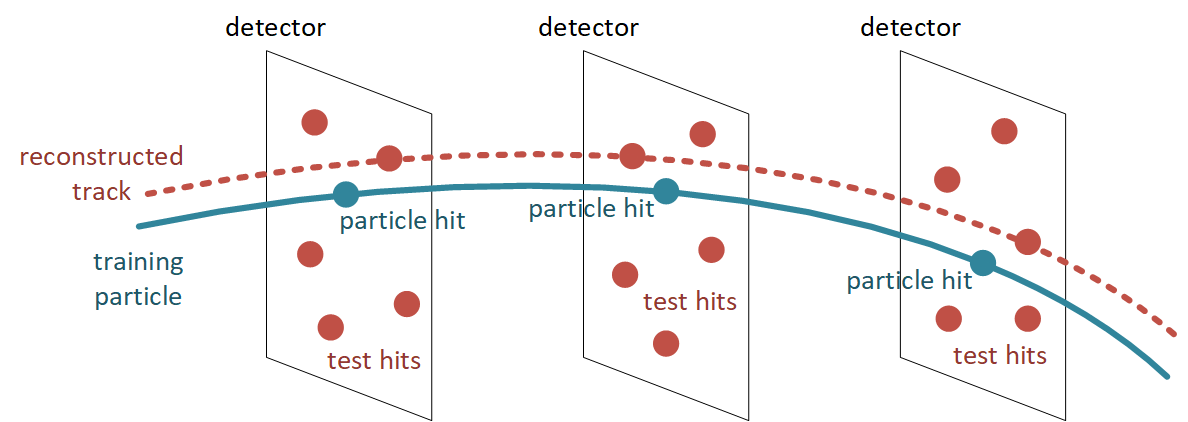
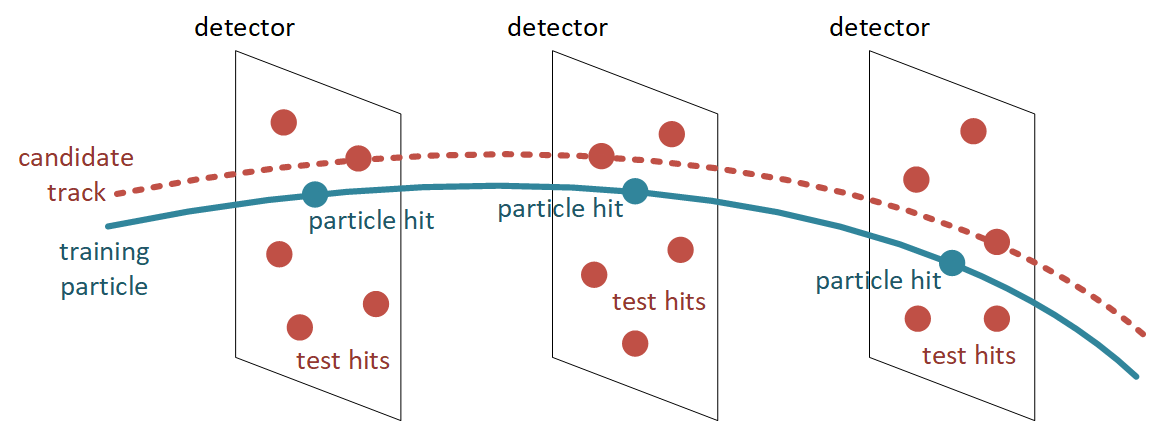
updated README.md

diff --git a/README.md b/README.md
@@ -14,7 +14,7 @@ So, let's have a look at the solution.
 
 ## Introduction
 
-The training set for this competition contains on the order of 10<sup>4</sup> events (event ids). Each event contains on the order of 10<sup>4</sup> particles (particle ids). Therefore, we have a total of about (10<sup>4</sup> events) * (10<sup>4</sup> particles per event) = 10<sup>8</sup> training particles.
+The training set for this competition contains on the order of 10<sup>4</sup> events (event ids). Each event contains on the order of 10<sup>4</sup> particles (particle ids). Therefore, there are a total of about (10<sup>4</sup> events) * (10<sup>4</sup> particles per event) = 10<sup>8</sup> training particles.
 
 <p align="center"><img src="https://raw.githubusercontent.com/diogoff/trackml-100/master/images/trackml.png"></p>
 <p align="center">(Source: <a href="https://sites.google.com/site/trackmlparticle/">https://sites.google.com/site/trackmlparticle/</a>)</p>
@@ -23,13 +23,22 @@ Although there are many particles, the routes that these particles travel throug
 
 We could try to create a model that takes into account this particular experimental setup. We could even try to learn that model from the training data, and I guess many competitors have worked along these lines.
 
-However, in this competition I attempted a more general approach. Regardless of the particular experimental setup, I tried to answer the following question:
+However, in this competition I tried a more general approach. Regardless of the particular experimental setup, I tried to answer the following question:
 
 * *Given a large amount of training particles, is it possible to do track reconstruction from test hits by finding the training particles that best fit the test hits?*
 
-To better explain this idea, consider the following figure:
+To better explain this idea, consider the following picture:
 
 <p align="center"><img src="https://raw.githubusercontent.com/diogoff/trackml-100/master/images/particle.png" width="600"></p>
+
+In the picture above, there are some test hits on three detectors. Let us pick a training particle that passes through these same detectors. Then some test hits will be closer to the training particle than others. 
+
+Pick the test hits that are closest to the particle hits on each detector. Calculate the average distance between the particle hits and the closest test hits on these detectors.
+
+Repeat this process for every training particle that passes through these same detectors. Calculate the average distance for all of them, based on the test hits that are closest to each particle.
+
+We will have several candidate tracks. The best candidate track is the one that corresponds to the smallest average distance.
+
 
 Apparently, the answer to this question is _yes_, but the results are not that good. This seems to indicate that the training set does not include all the tracks that may occur during a test experiment.
 
